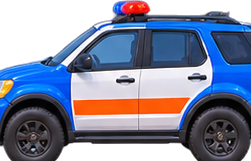
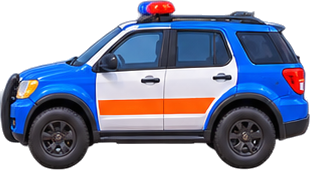
fix: the last five Blippi vehicle sprites are whole too
The five race sprites left in 1cd346d (the vehicle touches its neighbour on the
owner's sheet at a mirror, a bumper or a periscope) are now split at the thinnest
alpha column on each side and the thinnest row above (<= 20% of the busiest one), then
picked and checked like the others: ambulance peek 3/4 + side (the 3/4 also lost a
slice of the next ambulance), police-suv standard 3/4 + side (front and back now
whole), submarine peek rear (no longer carries a piece of the sub above it).
qa-race-crops needs no exceptions any more: 171/171. qa-blippi 739/739.

Claude-Session: https://claude.ai/code/session_01YRwxvkH2QjgTpm4h4UyHnb

diff --git a/index.html b/index.html
@@ -17,9 +17,9 @@
   screen, built to the owner's UI references on a fixed 1672x941 canvas. Art is placeholder frames from
   data/blippi-art.js until the owner's files are added (assets/blippi/<key>.webp + the key in SHIPPED).
 -->
-<link rel="stylesheet" href="blippi-motion.css?v=g1-20261012j">
-<link rel="stylesheet" href="blippi.css?v=g1-20261012j">
-<link rel="stylesheet" href="blippi-trip.css?v=g1-20261012j">
+<link rel="stylesheet" href="blippi-motion.css?v=g1-20261012k">
+<link rel="stylesheet" href="blippi.css?v=g1-20261012k">
+<link rel="stylesheet" href="blippi-trip.css?v=g1-20261012k">
 </head>
 <body>
 <div id="stage" aria-live="off"></div>
@@ -40,64 +40,64 @@
   <div class="phchip" id="phChip" hidden><svg viewBox="0 0 64 64" aria-hidden="true"><rect x="20" y="6" width="24" height="46" rx="5"/><path d="M52 24c4 3 6 7 6 11M6 34c0-4 2-8 6-11"/></svg>Putar perangkatmu ke samping</div>
 </div>
 <noscript>Game ini butuh JavaScript.</noscript>
-<script src="../Dunia-Emosi/games/data/save-engine.js?v=g1-20261012j"></script>
-<script src="data/blippi-art.js?v=g1-20261012j"></script>
-<script src="data/blippi-vfx.js?v=g1-20261012j"></script>
-<script src="vendor/parallax-js/3.1.0/parallax.min.js?v=g1-20261012j"></script>
-<script src="blippi-parallax-adapter.js?v=g1-20261012j"></script>
-<script src="blippi-fx.js?v=g1-20261012j"></script>
-<script src="blippi-life.js?v=g1-20261012j"></script>
-<script src="data/blippi-missions.js?v=g1-20261012j"></script>
-<script src="blippi.js?v=g1-20261012j"></script>
-<script src="blippi-mission.js?v=g1-20261012j"></script>
-<script src="blippi-mkit.js?v=g1-20261012j"></script>
-<script src="blippi-jalan.js?v=g1-20261012j"></script>
-<script src="blippi-pasir.js?v=g1-20261012j"></script>
-<script src="blippi-bukit.js?v=g1-20261012j"></script>
-<script src="blippi-jembatan.js?v=g1-20261012j"></script>
-<script src="blippi-pembukaan.js?v=g1-20261012j"></script>
-<script src="blippi-aliran.js?v=g1-20261012j"></script>
-<script src="blippi-kincir.js?v=g1-20261012j"></script>
-<script src="blippi-lumpur.js?v=g1-20261012j"></script>
-<script src="blippi-dua-jalan.js?v=g1-20261012j"></script>
-<script src="blippi-parade.js?v=g1-20261012j"></script>
-<script src="blippi-pilah.js?v=g1-20261012j"></script>
-<script src="blippi-sapu.js?v=g1-20261012j"></script>
-<script src="blippi-kebun.js?v=g1-20261012j"></script>
-<script src="blippi-traktor.js?v=g1-20261012j"></script>
-<script src="blippi-timbang.js?v=g1-20261012j"></script>
-<script src="blippi-petak.js?v=g1-20261012j"></script>
-<script src="blippi-piknik.js?v=g1-20261012j"></script>
-<script src="blippi-ferry.js?v=g1-20261012j"></script>
-<script src="blippi-crane.js?v=g1-20261012j"></script>
-<script src="blippi-miring.js?v=g1-20261012j"></script>
-<script src="blippi-dermaga.js?v=g1-20261012j"></script>
-<script src="blippi-paket.js?v=g1-20261012j"></script>
-<script src="blippi-roda.js?v=g1-20261012j"></script>
-<script src="blippi-kotak.js?v=g1-20261012j"></script>
-<script src="blippi-buka.js?v=g1-20261012j"></script>
-<script src="blippi-ban.js?v=g1-20261012j"></script>
-<script src="blippi-warna.js?v=g1-20261012j"></script>
-<script src="blippi-lintasan.js?v=g1-20261012j"></script>
-<script src="blippi-lampu.js?v=g1-20261012j"></script>
-<script src="blippi-festival.js?v=g1-20261012j"></script>
-<script src="blippi-panels.js?v=g1-20261012j"></script>
-<script src="../Dunia-Emosi/games/data/soal-engine.js?v=g1-20261012j"></script>
-<script src="../Dunia-Emosi/games/data/soal-gen-matematika.js?v=g1-20261012j"></script>
-<script src="data/soal-pack-blippi.js?v=g1-20261012j"></script>
-<script src="data/blippi-trip.js?v=g1-20261012j"></script>
-<script src="blippi-trip.js?v=g1-20261012j"></script>
-<script src="blippi-trip-land.js?v=g1-20261012j"></script>
-<script src="blippi-trip-air.js?v=g1-20261012j"></script>
-<script src="blippi-trip-top.js?v=g1-20261012j"></script>
-<script src="blippi-trip-ui.js?v=g1-20261012j"></script>
-<script src="data/blippi-race-data.js?v=g1-20261012j"></script>
-<script src="data/blippi-race-routes.js?v=g1-20261012j"></script>
-<script src="blippi-race.js?v=g1-20261012j"></script>
-<script src="blippi-race-ui.js?v=g1-20261012j"></script>
+<script src="../Dunia-Emosi/games/data/save-engine.js?v=g1-20261012k"></script>
+<script src="data/blippi-art.js?v=g1-20261012k"></script>
+<script src="data/blippi-vfx.js?v=g1-20261012k"></script>
+<script src="vendor/parallax-js/3.1.0/parallax.min.js?v=g1-20261012k"></script>
+<script src="blippi-parallax-adapter.js?v=g1-20261012k"></script>
+<script src="blippi-fx.js?v=g1-20261012k"></script>
+<script src="blippi-life.js?v=g1-20261012k"></script>
+<script src="data/blippi-missions.js?v=g1-20261012k"></script>
+<script src="blippi.js?v=g1-20261012k"></script>
+<script src="blippi-mission.js?v=g1-20261012k"></script>
+<script src="blippi-mkit.js?v=g1-20261012k"></script>
+<script src="blippi-jalan.js?v=g1-20261012k"></script>
+<script src="blippi-pasir.js?v=g1-20261012k"></script>
+<script src="blippi-bukit.js?v=g1-20261012k"></script>
+<script src="blippi-jembatan.js?v=g1-20261012k"></script>
+<script src="blippi-pembukaan.js?v=g1-20261012k"></script>
+<script src="blippi-aliran.js?v=g1-20261012k"></script>
+<script src="blippi-kincir.js?v=g1-20261012k"></script>
+<script src="blippi-lumpur.js?v=g1-20261012k"></script>
+<script src="blippi-dua-jalan.js?v=g1-20261012k"></script>
+<script src="blippi-parade.js?v=g1-20261012k"></script>
+<script src="blippi-pilah.js?v=g1-20261012k"></script>
+<script src="blippi-sapu.js?v=g1-20261012k"></script>
+<script src="blippi-kebun.js?v=g1-20261012k"></script>
+<script src="blippi-traktor.js?v=g1-20261012k"></script>
+<script src="blippi-timbang.js?v=g1-20261012k"></script>
+<script src="blippi-petak.js?v=g1-20261012k"></script>
+<script src="blippi-piknik.js?v=g1-20261012k"></script>
+<script src="blippi-ferry.js?v=g1-20261012k"></script>
+<script src="blippi-crane.js?v=g1-20261012k"></script>
+<script src="blippi-miring.js?v=g1-20261012k"></script>
+<script src="blippi-dermaga.js?v=g1-20261012k"></script>
+<script src="blippi-paket.js?v=g1-20261012k"></script>
+<script src="blippi-roda.js?v=g1-20261012k"></script>
+<script src="blippi-kotak.js?v=g1-20261012k"></script>
+<script src="blippi-buka.js?v=g1-20261012k"></script>
+<script src="blippi-ban.js?v=g1-20261012k"></script>
+<script src="blippi-warna.js?v=g1-20261012k"></script>
+<script src="blippi-lintasan.js?v=g1-20261012k"></script>
+<script src="blippi-lampu.js?v=g1-20261012k"></script>
+<script src="blippi-festival.js?v=g1-20261012k"></script>
+<script src="blippi-panels.js?v=g1-20261012k"></script>
+<script src="../Dunia-Emosi/games/data/soal-engine.js?v=g1-20261012k"></script>
+<script src="../Dunia-Emosi/games/data/soal-gen-matematika.js?v=g1-20261012k"></script>
+<script src="data/soal-pack-blippi.js?v=g1-20261012k"></script>
+<script src="data/blippi-trip.js?v=g1-20261012k"></script>
+<script src="blippi-trip.js?v=g1-20261012k"></script>
+<script src="blippi-trip-land.js?v=g1-20261012k"></script>
+<script src="blippi-trip-air.js?v=g1-20261012k"></script>
+<script src="blippi-trip-top.js?v=g1-20261012k"></script>
+<script src="blippi-trip-ui.js?v=g1-20261012k"></script>
+<script src="data/blippi-race-data.js?v=g1-20261012k"></script>
+<script src="data/blippi-race-routes.js?v=g1-20261012k"></script>
+<script src="blippi-race.js?v=g1-20261012k"></script>
+<script src="blippi-race-ui.js?v=g1-20261012k"></script>
 
-<script src="blippi-phub.js?v=g1-20261012j"></script>
+<script src="blippi-phub.js?v=g1-20261012k"></script>
 <script>document.getElementById("rotTrip").addEventListener("click",function(){if(window.BlippiTrip)window.BlippiTrip.open()})</script>
-<script src="sw-reload.js?v=g1-20261012j"></script>
+<script src="sw-reload.js?v=g1-20261012k"></script>
 </body>
 </html>

diff --git a/sw.js b/sw.js
@@ -1,72 +1,72 @@
 // game1 (G32 Blippi) service worker. Same origin as Dunia-Emosi, so the shared save engine and icons are
 // fetched from /Dunia-Emosi/ and cached here too. Files are cached ONE BY ONE: cache.addAll is atomic and a
 // single 404 used to leave a "clean" install that had cached nothing.
-const CACHE_VERSION = 'g1-20261012j'
+const CACHE_VERSION = 'g1-20261012k'
 const CACHE = 'blippi-' + CACHE_VERSION
 const SHELL = [
  "./",
  "./index.html",
  "./manifest.webmanifest",
- "./blippi-aliran.js?v=g1-20261012j",
- "./blippi-ban.js?v=g1-20261012j",
- "./blippi-buka.js?v=g1-20261012j",
- "./blippi-bukit.js?v=g1-20261012j",
- "./blippi-crane.js?v=g1-20261012j",
- "./blippi-dermaga.js?v=g1-20261012j",
- "./blippi-dua-jalan.js?v=g1-20261012j",
- "./blippi-ferry.js?v=g1-20261012j",
- "./blippi-festival.js?v=g1-20261012j",
- "./blippi-fx.js?v=g1-20261012j",
- "./blippi-jalan.js?v=g1-20261012j",
- "./blippi-jembatan.js?v=g1-20261012j",
- "./blippi-kebun.js?v=g1-20261012j",
- "./blippi-kincir.js?v=g1-20261012j",
- "./blippi-kotak.js?v=g1-20261012j",
- "./blippi-lampu.js?v=g1-20261012j",
- "./blippi-life.js?v=g1-20261012j",
- "./blippi-lintasan.js?v=g1-20261012j",
- "./blippi-lumpur.js?v=g1-20261012j",
- "./blippi-miring.js?v=g1-20261012j",
- "./blippi-mission.js?v=g1-20261012j",
- "./blippi-mkit.js?v=g1-20261012j",
- "./blippi-motion.css?v=g1-20261012j",
- "./blippi-paket.js?v=g1-20261012j",
- "./blippi-panels.js?v=g1-20261012j",
- "./blippi-parade.js?v=g1-20261012j",
- "./blippi-parallax-adapter.js?v=g1-20261012j",
- "./blippi-pasir.js?v=g1-20261012j",
- "./blippi-pembukaan.js?v=g1-20261012j",
- "./blippi-petak.js?v=g1-20261012j",
- "./blippi-phub.js?v=g1-20261012j",
- "./blippi-piknik.js?v=g1-20261012j",
- "./blippi-pilah.js?v=g1-20261012j",
- "./blippi-race-ui.js?v=g1-20261012j",
- "./blippi-race.js?v=g1-20261012j",
- "./blippi-roda.js?v=g1-20261012j",
- "./blippi-sapu.js?v=g1-20261012j",
- "./blippi-timbang.js?v=g1-20261012j",
- "./blippi-traktor.js?v=g1-20261012j",
- "./blippi-trip-air.js?v=g1-20261012j",
- "./blippi-trip-land.js?v=g1-20261012j",
- "./blippi-trip-top.js?v=g1-20261012j",
- "./blippi-trip-ui.js?v=g1-20261012j",
- "./blippi-trip.css?v=g1-20261012j",
- "./blippi-trip.js?v=g1-20261012j",
- "./blippi-warna.js?v=g1-20261012j",
- "./blippi.css?v=g1-20261012j",
- "./blippi.js?v=g1-20261012j",
- "./sw-reload.js?v=g1-20261012j",
- "./data/blippi-art.js?v=g1-20261012j",
- "./data/blippi-missions.js?v=g1-20261012j",
- "./data/blippi-race-data.js?v=g1-20261012j",
- "./data/blippi-race-routes.js?v=g1-20261012j",
- "./data/blippi-trip.js?v=g1-20261012j",
- "./data/blippi-vfx.js?v=g1-20261012j",
- "./data/soal-pack-blippi.js?v=g1-20261012j",
- "./vendor/parallax-js/3.1.0/parallax.min.js?v=g1-20261012j",
- "../Dunia-Emosi/games/data/save-engine.js?v=g1-20261012j",
- "../Dunia-Emosi/games/data/soal-engine.js?v=g1-20261012j",
- "../Dunia-Emosi/games/data/soal-gen-matematika.js?v=g1-20261012j",
+ "./blippi-aliran.js?v=g1-20261012k",
+ "./blippi-ban.js?v=g1-20261012k",
+ "./blippi-buka.js?v=g1-20261012k",
+ "./blippi-bukit.js?v=g1-20261012k",
+ "./blippi-crane.js?v=g1-20261012k",
+ "./blippi-dermaga.js?v=g1-20261012k",
+ "./blippi-dua-jalan.js?v=g1-20261012k",
+ "./blippi-ferry.js?v=g1-20261012k",
+ "./blippi-festival.js?v=g1-20261012k",
+ "./blippi-fx.js?v=g1-20261012k",
+ "./blippi-jalan.js?v=g1-20261012k",
+ "./blippi-jembatan.js?v=g1-20261012k",
+ "./blippi-kebun.js?v=g1-20261012k",
+ "./blippi-kincir.js?v=g1-20261012k",
+ "./blippi-kotak.js?v=g1-20261012k",
+ "./blippi-lampu.js?v=g1-20261012k",
+ "./blippi-life.js?v=g1-20261012k",
+ "./blippi-lintasan.js?v=g1-20261012k",
+ "./blippi-lumpur.js?v=g1-20261012k",
+ "./blippi-miring.js?v=g1-20261012k",
+ "./blippi-mission.js?v=g1-20261012k",
+ "./blippi-mkit.js?v=g1-20261012k",
+ "./blippi-motion.css?v=g1-20261012k",
+ "./blippi-paket.js?v=g1-20261012k",
+ "./blippi-panels.js?v=g1-20261012k",
+ "./blippi-parade.js?v=g1-20261012k",
+ "./blippi-parallax-adapter.js?v=g1-20261012k",
+ "./blippi-pasir.js?v=g1-20261012k",
+ "./blippi-pembukaan.js?v=g1-20261012k",
+ "./blippi-petak.js?v=g1-20261012k",
+ "./blippi-phub.js?v=g1-20261012k",
+ "./blippi-piknik.js?v=g1-20261012k",
+ "./blippi-pilah.js?v=g1-20261012k",
+ "./blippi-race-ui.js?v=g1-20261012k",
+ "./blippi-race.js?v=g1-20261012k",
+ "./blippi-roda.js?v=g1-20261012k",
+ "./blippi-sapu.js?v=g1-20261012k",
+ "./blippi-timbang.js?v=g1-20261012k",
+ "./blippi-traktor.js?v=g1-20261012k",
+ "./blippi-trip-air.js?v=g1-20261012k",
+ "./blippi-trip-land.js?v=g1-20261012k",
+ "./blippi-trip-top.js?v=g1-20261012k",
+ "./blippi-trip-ui.js?v=g1-20261012k",
+ "./blippi-trip.css?v=g1-20261012k",
+ "./blippi-trip.js?v=g1-20261012k",
+ "./blippi-warna.js?v=g1-20261012k",
+ "./blippi.css?v=g1-20261012k",
+ "./blippi.js?v=g1-20261012k",
+ "./sw-reload.js?v=g1-20261012k",
+ "./data/blippi-art.js?v=g1-20261012k",
+ "./data/blippi-missions.js?v=g1-20261012k",
+ "./data/blippi-race-data.js?v=g1-20261012k",
+ "./data/blippi-race-routes.js?v=g1-20261012k",
+ "./data/blippi-trip.js?v=g1-20261012k",
+ "./data/blippi-vfx.js?v=g1-20261012k",
+ "./data/soal-pack-blippi.js?v=g1-20261012k",
+ "./vendor/parallax-js/3.1.0/parallax.min.js?v=g1-20261012k",
+ "../Dunia-Emosi/games/data/save-engine.js?v=g1-20261012k",
+ "../Dunia-Emosi/games/data/soal-engine.js?v=g1-20261012k",
+ "../Dunia-Emosi/games/data/soal-gen-matematika.js?v=g1-20261012k",
  "../Dunia-Emosi/assets/apple-touch-icon.png",
  "../Dunia-Emosi/assets/favicon-32.png",
  "./assets/blippi/bg-garasi--portrait.webp",

diff --git a/data/blippi-race-data.js b/data/blippi-race-data.js
@@ -343,12 +343,12 @@ window.BlippiRaceData = {
      174
     ],
     "front-three-quarter": [
-     251,
-     166
+     262,
+     184
     ],
     "side": [
-     251,
-     161
+     310,
+     170
     ],
     "rear-three-quarter": [
      248,

diff --git a/tools/recut-truncated-vehicles.py b/tools/recut-truncated-vehicles.py
@@ -8,6 +8,8 @@ engine, boats) lost its nose or tail at the cell edge. Here the vehicle is cut a
     centre lies inside its box (>= 1%); alpha only, no outline, no colour key
   - accepted only when CLEAN: the component does not touch the window edge (a touching neighbour merges into it) and is at most
     1.9 cells wide / 1.5 cells high; otherwise the file is left as it is and reported
+  - a vehicle that touches its neighbour at a narrow point (a mirror, a bumper, a periscope) is first split at the thinnest
+    alpha column on each side / row above (<= 20% of the busiest one), then picked and checked again
 Then data/blippi-race-data.js box[view] follows the new standard-state size.   python3 tools/recut-truncated-vehicles.py [--dry]"""
 import json, os, re, sys
 from collections import deque
@@ -44,11 +46,41 @@ def recut(sheet_path, bbox, dst):
     wx0, wy0 = max(0, int(x0 - 0.6 * cw)), max(0, int(y0 - 0.25 * ch)); wx1, wy1 = min(sh.width, int(x1 + 0.6 * cw)), min(sh.height, int(y1 + 0.25 * ch))
     win = sh.crop((wx0, wy0, wx1, wy1)); w, h = win.size
     if win.split()[3].getextrema()[0] > 200: return None, 'sheet is opaque'
+    size, why = pick(win, w, h, x0 - wx0, y0 - wy0, cw, ch, (wx0 > 0, wx1 < sh.width, wy0 > 0), dst)
+    if why and 'window edge' in why:
+        # the vehicle touches its neighbour at a narrow point (a mirror, a bumper): cut the window at the thinnest
+        # alpha column between them on each side, then pick again. Alpha only; accepted only if the result is clean.
+        a = win.split()[3].point(lambda v: 255 if v > 20 else 0); px = a.load()
+        cols = [sum(1 for y in range(h) if px[x, y]) for x in range(w)]; peak = max(cols) or 1
+        cx = (x0 - wx0) + cw // 2
+        L = min(range(max(1, cx - int(1.1 * cw)), cx - int(0.25 * cw)), key=lambda x: cols[x], default=None)
+        R = min(range(cx + int(0.25 * cw), min(w - 1, cx + int(1.1 * cw))), key=lambda x: cols[x], default=None)
+        cut = win.copy(); pc = cut.load(); note = []
+        for side, x, rng in (('left', L, range(0, (L or 0) + 1)), ('right', R, range(R or w, w))):
+            if x is not None and cols[x] <= 0.2 * peak:
+                for xx in rng:
+                    for y in range(h): pc[xx, y] = (0, 0, 0, 0)
+                note.append(side)
+        # the row above (a periscope or a roof light reaching the vehicle over it): the thinnest alpha row above the cell centre
+        rows = [sum(1 for x in range(w) if px[x, y]) for y in range(h)]; rpk = max(rows) or 1; cy = (y0 - wy0) + ch // 2
+        U = min(range(1, max(2, cy - int(0.25 * ch))), key=lambda y: rows[y], default=None)
+        if U is not None and wy0 > 0 and rows[U] <= 0.2 * rpk:
+            for y in range(0, U + 1):
+                for xx in range(w): pc[xx, y] = (0, 0, 0, 0)
+            note.append('top')
+        size, why = pick(cut, w, h, x0 - wx0, y0 - wy0, cw, ch, (wx0 > 0 or 'left' in note, wx1 < sh.width or 'right' in note, wy0 > 0 and 'top' not in note), dst, cut_at=(L if 'left' in note else None, R if 'right' in note else None))
+        if not why: why = None
+    return size, why
+
+def pick(win, w, h, cx0, cy0, cw, ch, inner, dst, cut_at=(None, None)):
     cs = comps(win.split()[3], w, h)
-    inside = lambda c: sum(1 for (x, y) in c if x0 - wx0 <= x < x1 - wx0 and y0 - wy0 <= y < y1 - wy0)
+    inside = lambda c: sum(1 for (x, y) in c if cx0 <= x < cx0 + cw and cy0 <= y < cy0 + ch)
     main = max(cs, key=inside)
     mx = [p[0] for p in main]; my = [p[1] for p in main]; bx0, bx1, by0, by1 = min(mx), max(mx), min(my), max(my)
-    if (bx0 == 0 and wx0 > 0) or (bx1 == w - 1 and wx1 < sh.width) or (by0 == 0 and wy0 > 0):
+    lo, hi = cut_at
+    if (bx0 == 0 and inner[0] and lo is None) or (bx1 == w - 1 and inner[1] and hi is None) or (by0 == 0 and inner[2]):
+        return None, 'touches the window edge (merged with a neighbour?)'
+    if (lo is not None and bx0 <= 0) or (hi is not None and bx1 >= w - 1):
         return None, 'touches the window edge (merged with a neighbour?)'
     if bx1 - bx0 > 1.9 * cw or by1 - by0 > 1.5 * ch: return None, 'too big for one vehicle (%dx%d vs cell %dx%d)' % (bx1 - bx0, by1 - by0, cw, ch)
     keep = [main] + [c for c in cs if c is not main and len(c) >= 0.01 * len(main) and bx0 <= sum(p[0] for p in c) / len(c) <= bx1 and by0 <= sum(p[1] for p in c) / len(c) <= by1]

diff --git a/tools/qa-race-crops.py b/tools/qa-race-crops.py
@@ -1,13 +1,11 @@
 #!/usr/bin/env python3
 """Race vehicle sprites are whole (owner 2026-10-12: the bus had "sisi potongan di sebelah kiri"). A sprite whose alpha runs
 along its left / right / top edge (> 15% of that edge; a straight tyre side reaches 13%) was cut at a sheet cell and lost its nose or tail. Fix with
-tools/recut-truncated-vehicles.py. KNOWN lists, BY NAME, the sprites whose vehicle touches a neighbour on the owner's sheet,
-so no clean alpha cut exists; they stay until the owner sends a separated view.   python3 tools/qa-race-crops.py"""
+tools/recut-truncated-vehicles.py. KNOWN would list, BY NAME, a sprite with no clean alpha cut on the owner's sheet.   python3 tools/qa-race-crops.py"""
 import glob, os, sys
 from PIL import Image
 ROOT = os.path.dirname(os.path.dirname(os.path.abspath(__file__)))
-KNOWN = {'ambulance/blippi_peek-front-three-quarter', 'ambulance/blippi_peek-side', 'police-suv/standard-front-three-quarter',
-         'police-suv/standard-side', 'submarine/blippi_peek-rear'}   # merged with the neighbouring vehicle on the sheet
+KNOWN = set()   # 2026-10-12: the last five (vehicles touching a neighbour on the sheet) were split at the thinnest alpha column/row
 fails = []; n = 0
 for f in sorted(glob.glob(os.path.join(ROOT, 'assets/race/*/*.webp'))):
     n += 1; key = os.path.relpath(f, os.path.join(ROOT, 'assets/race'))[:-5]
@@ -16,5 +14,5 @@ for f in sorted(glob.glob(os.path.join(ROOT, 'assets/race/*/*.webp'))):
     cut = [k for k, v in e.items() if v > 0.15]
     if cut and key not in KNOWN: fails.append('%s cut at the %s edge' % (key, '/'.join(cut)))
 for f in fails: print('FAIL', f)
-print('qa-race-crops: %d/%d sprites whole (%d known merged on the sheet)' % (n - len(fails), n, len(KNOWN)))
+print('qa-race-crops: %d/%d sprites whole' % (n - len(fails), n))
 sys.exit(1 if fails else 0)
